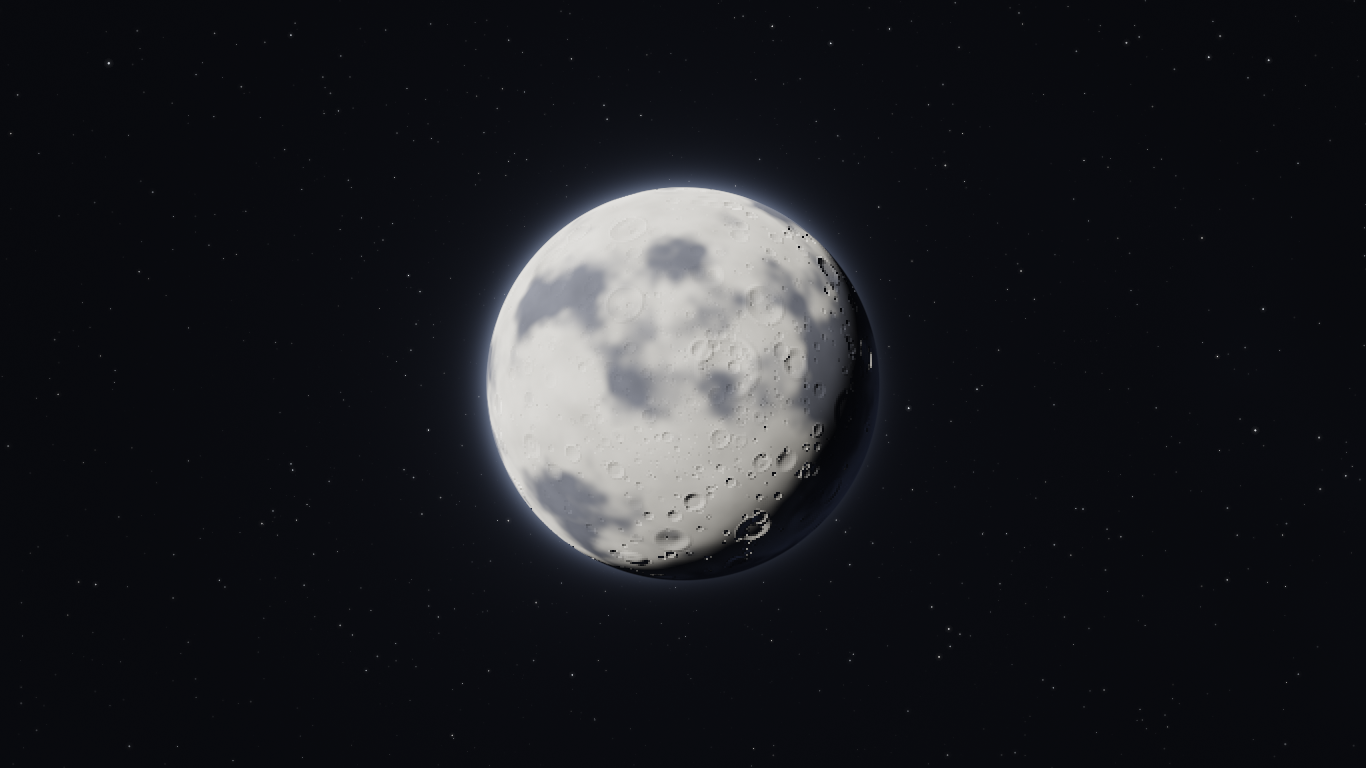
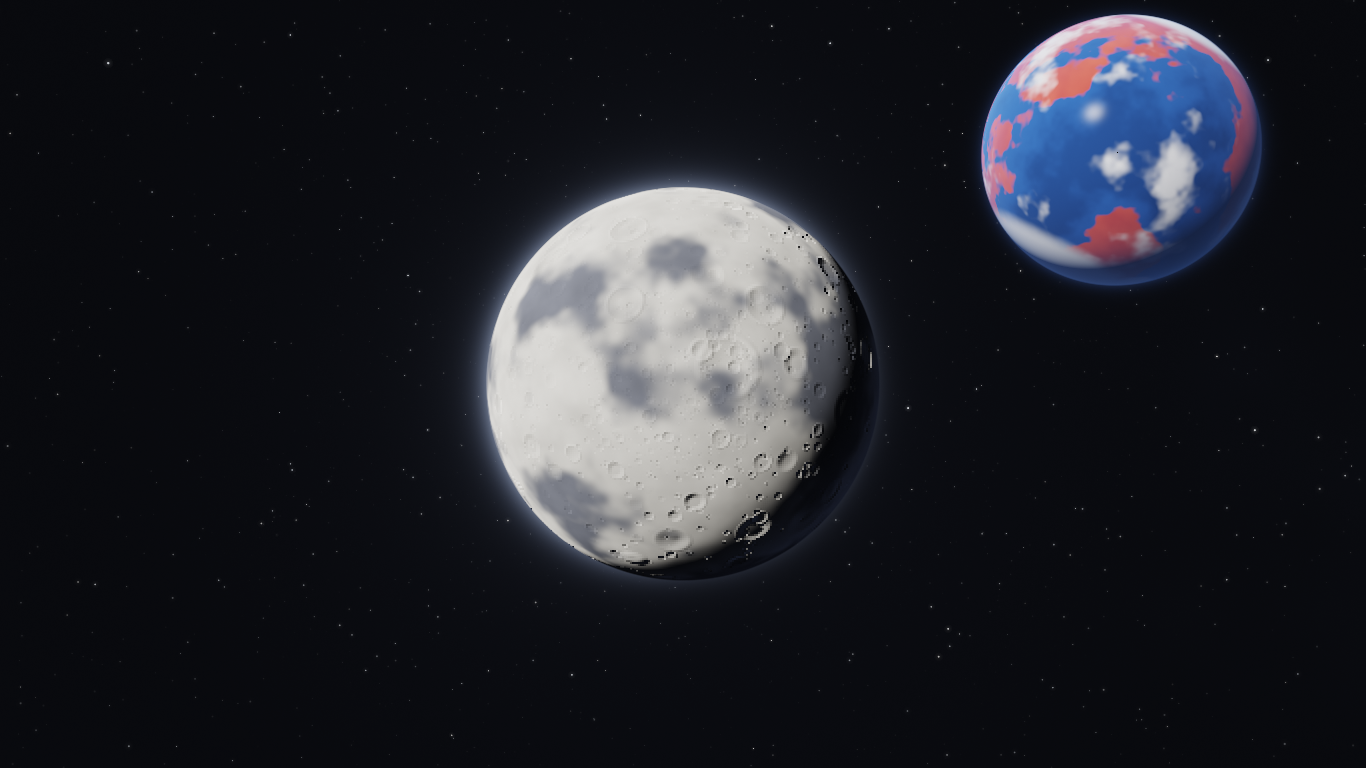
Sol e planeta: um pequeno sistema solar com física real
- Sol com escurecimento de limbo e coroa, no espaço do céu: arrastar o céu
  o traz à vista, e toda a luz da cena sai dele — as fases da lua e do
  planeta são geometria, não pintura. Alinhado atrás da lua, eclipse total
  com anel de coroa.
- Planeta de oceanos azuis e continentes vermelhos: litoral definido,
  calotas polares, nuvens que deslizam, glint solar no mar, borda Rayleigh.
- Dados NASA: raio do planeta 3.667 raios lunares (Terra/Lua), eixo a
  23.4 graus, lua travada por maré (céu e lua avançam no mesmo eixo e
  taxa; a composição moonM*skyM^T fica invariante — o lock sai de graça),
  dia:mês = 1:27.32.
- Tempo comprimido ~300x: dia do planeta em 4.8 min, mês lunar em 2.2 h.
  Nada gira rápido; a lua ficou mais lenta que antes.
- Pan mais largo (3x) para alcançar o planeta no zoom.

Changed region(s): [[0.7072, 0.0, 0.9531, 0.375]]

diff --git a/index.html b/index.html
@@ -46,10 +46,18 @@ uniform float uPixAng;    // radians per pixel
 uniform vec2  uPan;
 uniform mat3  uMoonM;     // moon orientation (auto-spin + drag)
 uniform mat3  uSkyM;      // sky orientation (drift + drag)
-uniform float uLightPhase;
+uniform vec3  uSunDir;    // sun direction, in sky space
+uniform vec3  uPlanetPos; // planet centre, in sky space
+uniform float uPlanetRot; // planet day phase
 
 const vec3  MOON_C = vec3(0.0, 0.0, -7.0);
 const float MOON_R = 1.0;
+
+// NASA ratios: the planet is Earth-to-Moon sized (6371/1737 = 3.67 moon radii)
+// and its spin axis is tilted 23.4 degrees off the orbit axis, like Earth's.
+// Distances are compressed for composition, as in any orrery.
+const float PLANET_R = 3.667;
+const vec3  PAXIS = vec3(0.5039, 0.8566, 0.1109);
 
 // ---------- hashes (Dave Hoskins, sin-free) ----------
 float hash13(vec3 p) {
@@ -303,8 +311,73 @@ void main() {
   col += meteor(uv, aspect, pixUV, 7.0, 0.0);
   col += meteor(uv, aspect, pixUV, 11.0, 4.0);
 
-  vec3 L = axisRot(vec3(0.0, 1.0, 0.0), sin(uLightPhase) * 0.14)
-           * normalize(vec3(-0.55, 0.42, 0.72));
+  // ---- sun ----
+  // Opaque disc with real limb darkening, plus an additive corona. It lives in
+  // sky space, so dragging swings it with the stars — and every phase you see
+  // on the moon and planet follows from where it actually is.
+  float angS = acos(clamp(dot(srd, uSunDir), -1.0, 1.0));
+  float SUN_R = 0.038;
+  if (angS < SUN_R * 16.0) {
+    float covS = smoothstep(SUN_R + uPixAng * 2.0, SUN_R - uPixAng * 2.0, angS);
+    if (covS > 0.0) {
+      float mu = sqrt(max(1.0 - (angS * angS) / (SUN_R * SUN_R), 0.0));
+      float limb = 0.34 + 0.66 * pow(mu, 0.55);
+      vec3 sc = vec3(1.0, 0.92, 0.78) * 7.0 * limb;
+      sc *= 0.95 + 0.10 * fbm(srd * 150.0 + uTime * 0.02, 3);
+      col = mix(col, sc, covS);
+    }
+    float eS = max(angS - SUN_R, 0.0) / SUN_R;
+    float cor = 0.9 * exp(-eS * 3.0) + 0.13 * exp(-eS * 0.6);
+    cor *= 0.85 + 0.30 * fbm(srd * 6.0 + uTime * 0.004, 3);
+    col += vec3(1.0, 0.86, 0.66) * cor * 0.5 * (1.0 - covS);
+  }
+
+  // ---- planet: blue oceans, red continents ----
+  {
+    float pd2 = dot(uPlanetPos, uPlanetPos);
+    vec3 pdir = uPlanetPos * inversesqrt(pd2);
+    float angP = acos(clamp(dot(srd, pdir), -1.0, 1.0));
+    float angRP = asin(clamp(PLANET_R * inversesqrt(pd2), 0.0, 1.0));
+    if (angP < angRP + uPixAng * 2.0) {
+      float b = -dot(uPlanetPos, srd);
+      float dd = b * b - (pd2 - PLANET_R * PLANET_R);
+      vec3 N = (srd * (-b - sqrt(max(dd, 0.0))) - uPlanetPos) / PLANET_R;
+      vec3 pr = axisRot(PAXIS, uPlanetRot) * N;
+
+      float cont = fbm(pr * 1.7 + 11.3, 5);
+      float land = smoothstep(0.495, 0.535, cont);
+      vec3 alb = vec3(0.030, 0.095, 0.30) * (0.75 + 0.55 * smoothstep(0.32, 0.50, cont));
+      alb = mix(alb, mix(vec3(0.46, 0.065, 0.045), vec3(0.80, 0.16, 0.075), fbm(pr * 5.3, 3)), land);
+      float lat = abs(dot(N, PAXIS));
+      alb = mix(alb, vec3(0.92, 0.94, 0.96), smoothstep(0.80, 0.90, lat + 0.06 * (cont - 0.5)));
+
+      // clouds slide against the ground below them
+      float cl = smoothstep(0.52, 0.74, fbm(axisRot(PAXIS, uPlanetRot * 0.92) * N * 3.1 + 4.7, 4));
+      float oceanFree = (1.0 - land) * (1.0 - cl);
+      alb = mix(alb, vec3(0.97, 0.98, 1.0), cl * 0.9);
+
+      float ndlP = dot(N, uSunDir);
+      float dayP = max(ndlP, 0.0);
+      vec3 cp = alb * dayP * 1.25 * vec3(1.0, 0.97, 0.92);
+      vec3 Vp = -srd;
+      cp += vec3(1.0, 0.95, 0.85) * pow(max(dot(reflect(-uSunDir, N), Vp), 0.0), 140.0)
+            * oceanFree * 0.45 * dayP;                         // sun glint on open sea
+      cp += vec3(0.22, 0.42, 0.95) * pow(1.0 - max(dot(N, Vp), 0.0), 2.6)
+            * (0.10 + 0.75 * dayP);                            // Rayleigh rim
+      cp += alb * vec3(0.010, 0.012, 0.022);                   // night side
+
+      float covP = smoothstep(angRP + uPixAng, angRP - uPixAng, angP);
+      col = mix(col, cp, covP);
+    }
+    // thin atmosphere glow past the limb
+    float ePl = max(angP - angRP, 0.0) / max(angRP, 1e-4);
+    col += vec3(0.20, 0.38, 0.90) * 0.06 * exp(-ePl * 26.0);
+  }
+
+  // All light in the scene comes from the sun. The moon shades in view space,
+  // so pull the sun's direction back through the sky orientation (v*M is
+  // transpose(M)*v for an orthonormal M).
+  vec3 L = normalize(uSunDir * uSkyM);
 
   // ---- moon halo ----
   float e = max(ang - angR, 0.0) / max(angR, 1e-4);
@@ -407,7 +480,8 @@ void main() {
   gl.vertexAttribPointer(0, 2, gl.FLOAT, false, 0, 0);
 
   var U = {};
-  ['uRes', 'uTime', 'uTanHalf', 'uPixAng', 'uPan', 'uMoonM', 'uSkyM', 'uLightPhase']
+  ['uRes', 'uTime', 'uTanHalf', 'uPixAng', 'uPan', 'uMoonM', 'uSkyM',
+   'uSunDir', 'uPlanetPos', 'uPlanetRot']
     .forEach(function (n) { U[n] = gl.getUniformLocation(prog, n); });
 
   // ---------- quaternions ----------
@@ -447,7 +521,19 @@ void main() {
   var zoom = 1.0, zoomTarget = 1.0;
   var panX = 0.0, panY = 0.0;
   var curU = 0.0, curV = 0.0;      // cursor in uv space (y up)
-  var lightPhase = 0.0;
+
+  // ---- the system (sky space, NASA-proportioned) ----
+  // You hover over the moon's near side. The sky — sun, planet, stars — wheels
+  // overhead once per (scaled) lunar month while the tidally locked moon turns
+  // under you at the same rate, so the planet never wanders from the face it
+  // owns. The planet spins 27.32x faster: its 24h day against the 27.32-day
+  // month (NASA). One real second here is about five simulated minutes; at
+  // that scale the planet's day takes ~4.8 min and everything else is slower.
+  var SUN_DIR = [-0.5507, 0.4206, 0.7210]; // ~130 deg off-view: gibbous moon
+  var PLANET_POS = [12.0, 6.4, -37.6];     // upper right, 3.667 moon radii wide
+  var W_ORBIT = 0.0008;                    // lunar month -> 2.2 h on screen
+  var W_DAY = W_ORBIT * 27.32;             // planet day  -> 4.8 min on screen
+  var planetRot = 0.0;
 
   var moonQ = [0, 0, 0, 1];        // moon orientation
   var skyQ = [0, 0, 0, 1];         // sky orientation
@@ -505,7 +591,8 @@ void main() {
   function tanHalf(z) { return Math.tan(0.5 * FOV0 / z); }
 
   function clampPan() {
-    var maxPan = MOON_TAN * 1.05 * Math.max(0, 1 - 1 / zoom);
+    // Wide enough that a zoomed view can frame the planet, not just the moon.
+    var maxPan = MOON_TAN * 3.0 * Math.max(0, 1 - 1 / zoom);
     var d = Math.sqrt(panX * panX + panY * panY);
     if (d > maxPan && d > 0) {
       panX *= maxPan / d;
@@ -625,9 +712,6 @@ void main() {
     }
     clampPan();
 
-    // motion slows as you zoom in, so it reads the same at any magnification
-    lightPhase += dt * 0.05 / zoom;
-
     // Always flush banked drag, so a release can't strand the last few degrees.
     if (pendX !== 0 || pendY !== 0) {
       rotateView(pendX, pendY);
@@ -640,9 +724,13 @@ void main() {
       spinVY *= damp;
       if (Math.abs(spinVX) < 1e-4 && Math.abs(spinVY) < 1e-4) spinVX = spinVY = 0;
     }
-    // slow ambient motion, always
-    moonQ = qNorm(qMul(moonQ, qAxis(0.1384, 0.9886, 0.0593, dt * 0.018 / zoom)));
-    skyQ = qNorm(qMul(skyQ, qAxis(0.234, 0.957, 0.163, dt * 0.004 / zoom)));
+    // Ambient motion: sky and moon advance about the SAME axis at the SAME
+    // rate. Because both matrices are right-multiplied, the composition
+    // moonM * skyM^T that maps planet direction to moon surface is invariant —
+    // that IS the tidal lock, held exactly, for free.
+    moonQ = qNorm(qMul(moonQ, qAxis(0.1384, 0.9886, 0.0593, dt * W_ORBIT / zoom)));
+    skyQ = qNorm(qMul(skyQ, qAxis(0.1384, 0.9886, 0.0593, dt * W_ORBIT / zoom)));
+    planetRot += dt * W_DAY / zoom;
 
     var th = tanHalf(zoom);
     gl.uniform2f(U.uRes, W, H);
@@ -652,7 +740,9 @@ void main() {
     gl.uniform2f(U.uPan, panX, panY);
     gl.uniformMatrix3fv(U.uMoonM, false, qToMat3(moonQ));
     gl.uniformMatrix3fv(U.uSkyM, false, qToMat3(skyQ));
-    gl.uniform1f(U.uLightPhase, lightPhase);
+    gl.uniform3f(U.uSunDir, SUN_DIR[0], SUN_DIR[1], SUN_DIR[2]);
+    gl.uniform3f(U.uPlanetPos, PLANET_POS[0], PLANET_POS[1], PLANET_POS[2]);
+    gl.uniform1f(U.uPlanetRot, planetRot);
     gl.drawArrays(gl.TRIANGLES, 0, 3);
 
     // Resolution only ever steps down, never back up: a monotonic ladder can't

diff --git a/README.md b/README.md
@@ -1,7 +1,8 @@
 # LUA de hawkzinho
 
-Uma lua em WebGL, num céu escuro cheio de estrelas. Arquivo único, sem
-dependências e sem servidor — é só abrir o `index.html` no navegador.
+Um pequeno sistema solar em WebGL: uma lua, um planeta azul de continentes
+vermelhos e um sol de verdade, num céu escuro cheio de estrelas. Arquivo único,
+sem dependências e sem servidor — é só abrir o `index.html` no navegador.
 
 ![captura](docs/preview.png)
 
@@ -14,6 +15,12 @@ dependências e sem servidor — é só abrir o `index.html` no navegador.
 | Pinça (toque) | Zoom |
 
 Não há botões nem texto na tela, por design.
+
+O sol começa fora da vista — é assim no céu de verdade: com a lua gibosa, o sol
+está a ~130° de distância; os dois nunca caberiam juntos num campo de visão
+estreito. Arraste o céu para encontrá-lo e veja a fase da lua mudar ao vivo
+conforme ele se move. Alinhe o sol atrás da lua e você ganha um eclipse total,
+com o anel da coroa ao redor do disco escuro.
 
 ## Como funciona
 
@@ -35,6 +42,25 @@ Tudo é desenhado por um único fragment shader, sem texturas nem modelos.
 - **As estrelas cadentes** são desenhadas em espaço de tela, com cabeça compacta
   e rastro que afina e some. Duas trilhas independentes dão cerca de uma a cada
   7 segundos.
+- **O sol** é um disco com escurecimento de limbo real (mais brilhante no centro,
+  como o Sol de verdade) e uma coroa aditiva. Toda a luz da cena sai dele: as
+  fases da lua e do planeta são pura geometria, não pintura.
+- **O planeta** tem oceanos azuis, continentes vermelhos com litoral definido,
+  calotas polares, nuvens que deslizam sobre o chão, reflexo do sol no mar
+  aberto e borda azul de atmosfera (Rayleigh).
+
+## A física (dados reais, tempo comprimido)
+
+- Raio do planeta = 3.667 raios lunares — a razão Terra/Lua da NASA (6371/1737 km).
+- Eixo do planeta inclinado 23.4°, como o da Terra.
+- A lua é travada por maré: gira sobre si na mesma taxa em que o céu roda,
+  então o planeta nunca sai da face que a encara — como a Lua real, que mostra
+  sempre o mesmo lado para a Terra.
+- Dia do planeta : mês lunar = 1 : 27.32, a razão real (24 h : 27.32 dias).
+- Tempo comprimido ~300× (1 s ≈ 5 min): o dia do planeta leva ~4.8 min na tela
+  e o mês lunar ~2.2 h. Nada gira rápido.
+- Distâncias comprimidas para a composição, como em qualquer planetário; o sol
+  aparece maior que os 0.53° reais para não virar um ponto ofuscante.
 
 O giro do céu e da lua é guardado em quatérnions, para acumular arrasto em
 qualquer direção sem deriva. A lua recebe um ângulo maior que o céu para o mesmo